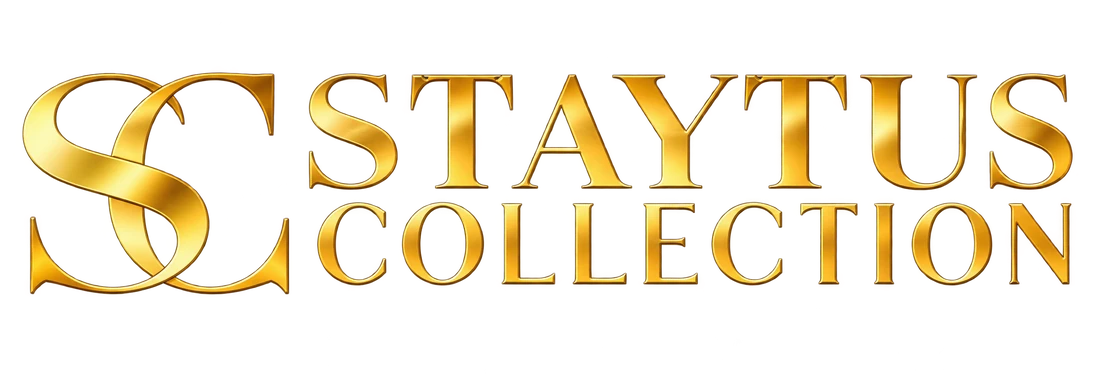
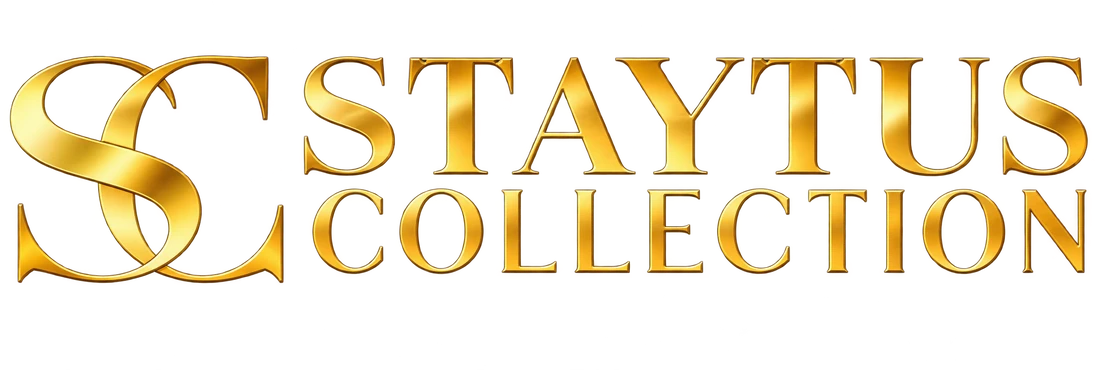
Gold seams between sections, tidier hero
- Hero: wordmark and tagline now share one left edge (the wordmark asset was
  re-cropped to its glyphs so the box edge and the text edge actually line up).
- Removed the scroll cue and the Replay button.
- Every section and the footer now close with the hero's 4px gold rule. Each one
  draws left to right the first time it scrolls into view, then stays. The bar
  inside the seam does the moving so the observed element keeps its area —
  IntersectionObserver never reports a zero-width target as visible. No negative
  bottom rootMargin for the same reason: the footer's seam is the document's
  last pixel row.
- Dropped the once-per-session intro gate along with Replay, so the hero still
  has a way to be seen again.
- Under prefers-reduced-motion every seam sits finished and nothing animates.

Claude-Session: https://claude.ai/code/session_011caNUriUyfvHvYwu5VTicu

Changed region(s): [[0.0, 0.1486, 0.9891, 0.8027]]

diff --git a/index.html b/index.html
@@ -148,7 +148,22 @@ a:hover{ color:var(--gold-lift); }
 }
 
 .lead{ font-size:var(--t-lead); line-height:1.8; }
-.section{ padding:var(--sec-y) var(--pad-x); scroll-margin-top:76px; }
+.section{ position:relative; padding:var(--sec-y) var(--pad-x); scroll-margin-top:76px; }
+
+/* The gold seam closes every section. It draws left to right the first time it
+   scrolls into view, then stays. */
+.seam{
+  position:absolute; z-index:6; left:0; right:0; bottom:0;
+  display:block; height:var(--edge); overflow:hidden;
+}
+/* The bar inside does the moving — the observed .seam must keep its area, or
+   IntersectionObserver never reports a zero-width element as visible. */
+.seam::before{
+  content:""; position:absolute; inset:0; background:var(--gold);
+  transform:scaleX(0); transform-origin:left center;
+  transition:transform 950ms var(--ease-in-out);
+}
+.seam[data-on="1"]::before{ transform:scaleX(1); }
 .section--tint{ background:var(--cream); }
 .section--dark{ background:var(--navy); }
 
@@ -185,8 +200,8 @@ a:hover{ color:var(--gold-lift); }
   height:100vh; height:100dvh; min-height:560px;
   overflow:hidden;
   background:radial-gradient(120% 90% at 78% 8%, var(--white) 0%, var(--cream) 52%, var(--cream-2) 100%);
-  border-bottom:var(--edge) solid var(--gold);
 }
+.hero .seam::before{ transition-delay:calc(2.15s * var(--stage)); }
 .hero__sky{
   position:absolute; z-index:1; top:0; right:-2vw; height:100%;
   width:63vw; min-width:520px; overflow:hidden;
@@ -204,7 +219,7 @@ a:hover{ color:var(--gold-lift); }
 }
 
 .hero__brand{
-  position:absolute; z-index:3; right:58.5vw; bottom:132px;
+  position:absolute; z-index:3; left:var(--pad-x); bottom:130px;
   width:36vw; min-width:240px; max-width:560px;
   margin:0;
 }
@@ -214,34 +229,12 @@ a:hover{ color:var(--gold-lift); }
 }
 
 .hero__tagline{
-  position:absolute; z-index:4; left:var(--pad-x); bottom:76px;
+  position:absolute; z-index:4; left:var(--pad-x); bottom:70px;
   max-width:min(40vw,460px);
   font-family:var(--display); font-weight:300; font-style:normal;
   font-size:var(--t-hero); line-height:1.24; letter-spacing:.015em;
   color:var(--ink); text-wrap:pretty;
 }
-
-.hero__cue{
-  position:absolute; z-index:4; left:var(--pad-x); bottom:28px;
-  display:flex; align-items:center; gap:9px;
-  font-size:9px; letter-spacing:.28em; text-transform:uppercase; color:var(--ink-muted);
-  transition:opacity var(--d-change) var(--ease-out);
-}
-.hero__cue svg{ stroke:var(--gold); }
-.hero__cue[data-gone="1"]{ opacity:0; pointer-events:none; }
-
-.hero__replay{
-  position:absolute; z-index:5; right:var(--pad-x); bottom:26px;
-  padding:9px 18px;
-  background:rgba(250,249,246,.92); backdrop-filter:blur(6px);
-  border:1px solid rgba(34,44,69,.32); color:var(--ink);
-  font-family:var(--body); font-size:10px; letter-spacing:.24em; text-transform:uppercase;
-  cursor:pointer;
-  transition:border-color var(--d-hover) var(--ease-out),
-             color var(--d-hover) var(--ease-out),
-             background var(--d-hover) var(--ease-out);
-}
-.hero__replay:hover{ border-color:var(--gold); color:var(--gold); background:var(--white); }
 
 /* ── hero stage animation ──────────────────────────────────── */
 /* The nav must keep its centring translate while the drop plays. */
@@ -263,19 +256,12 @@ a:hover{ color:var(--gold-lift); }
   0%  { transform:translate3d(0,14px,0); opacity:0; }
   100%{ transform:translate3d(0,0,0); opacity:1; }
 }
-@keyframes scCueBob{
-  0%,100%{ transform:translateY(0); }
-  50%    { transform:translateY(5px); }
-}
 
 .hero__sky,
 .hero__building{ animation:scBuildingIn calc(1.6s * var(--stage)) var(--ease-stage) both; }
 .hero__brand img{ animation:scBrandOut calc(1.45s * var(--stage)) var(--ease-stage) calc(.95s * var(--stage)) both; }
 .nav{ animation:scNavDrop calc(.85s * var(--stage)) var(--ease-out) calc(2.05s * var(--stage)) both; }
 .hero__tagline{ animation:scFadeUp calc(1.1s * var(--stage)) var(--ease-out) calc(2.5s * var(--stage)) both; }
-.hero__replay{ animation:scFadeUp calc(.9s * var(--stage)) var(--ease-out) calc(2.7s * var(--stage)) both; }
-.hero__cue{ animation:scFadeUp calc(.9s * var(--stage)) var(--ease-out) calc(2.9s * var(--stage)) both; }
-.hero__cue svg{ animation:scCueBob 2.4s var(--ease-in-out) calc(3.6s * var(--stage)) infinite; }
 
 /* ── welcome ───────────────────────────────────────────────── */
 .welcome{ text-align:center; }
@@ -297,8 +283,9 @@ a:hover{ color:var(--gold-lift); }
 
 /* ── statement band ────────────────────────────────────────── */
 .band{
+  position:relative;
   background:var(--navy-2); padding:var(--sec-y-sm) var(--pad-x);
-  text-align:center; border-top:1px solid rgba(255,255,255,.06);
+  text-align:center;
 }
 .band p{ max-width:760px; margin-inline:auto; font-size:var(--t-lead); line-height:1.8; color:var(--mist); }
 .band__close{
@@ -437,12 +424,12 @@ textarea.field{ resize:vertical; min-height:96px; }
 
 /* ── footer ────────────────────────────────────────────────── */
 .foot{
-  background:var(--navy-2); padding:0 var(--pad-x) 34px;
+  background:var(--navy-2); padding:0 var(--pad-x) 40px;
   position:relative; z-index:1;
 }
 .foot__inner{
   max-width:1080px; margin-inline:auto;
-  padding-top:22px; border-top:1px solid var(--slate); text-align:center;
+  padding-top:30px; text-align:center;
 }
 .foot p{ font-size:11px; line-height:1.65; color:var(--mist); }
 .foot p + p{ margin-top:12px; }
@@ -478,7 +465,7 @@ textarea.field{ resize:vertical; min-height:96px; }
      tagline in flow, and let the building rise out of the bottom edge instead. */
   .hero{
     min-height:620px;
-    display:flex; flex-direction:column; align-items:center; justify-content:center;
+    display:flex; flex-direction:column; align-items:flex-start; justify-content:center;
     padding:14vh var(--pad-x) 36vh;
   }
   .hero__sky{ display:none; }
@@ -493,11 +480,9 @@ textarea.field{ resize:vertical; min-height:96px; }
   .hero__tagline{
     position:relative; z-index:3;
     left:auto; right:auto; bottom:auto;
-    margin-top:22px; max-width:none; text-align:center;
+    margin-top:22px; max-width:none; text-align:left;
     font-size:clamp(19px,5.4vw,27px);
   }
-  .hero__replay{ bottom:18px; }
-  .hero__cue{ display:none; }
 }
 
 @media (max-width:640px){
@@ -518,10 +503,8 @@ textarea.field{ resize:vertical; min-height:96px; }
   .hero__brand img,
   .nav,
   .hero__tagline,
-  .hero__replay,
-  .hero__cue,
-  .hero__cue svg,
   .contact__grid-bg{ animation:none !important; }
+  .seam::before{ transform:scaleX(1) !important; transition:none !important; }
   .nav{ transform:translateX(-50%); opacity:1; }
   .card:hover,
   .btn:hover,
@@ -556,17 +539,12 @@ textarea.field{ resize:vertical; min-height:96px; }
          alt="Rouxcor House, 20 Herold Street, Stellenbosch" width="1400" height="933" fetchpriority="high">
 
     <h1 class="hero__brand">
-      <img src="assets/wordmark.webp" alt="Staytus Collection" width="1100" height="379">
+      <img src="assets/wordmark.webp" alt="Staytus Collection" width="1100" height="370">
     </h1>
 
     <p class="hero__tagline">A Distinctive Approach<br>to Property Development</p>
 
-    <div class="hero__cue" id="cue" aria-hidden="true">
-      <span>Scroll</span>
-      <svg width="16" height="16" viewBox="0 0 24 24" fill="none" stroke-width="1.6"><path d="M12 5v14"></path><path d="M5 12l7 7 7-7"></path></svg>
-    </div>
-
-    <button class="hero__replay" id="replay" type="button">Replay</button>
+    <i class="seam" aria-hidden="true"></i>
   </section>
 
   <!-- ── WELCOME ──────────────────────────────────────────── -->
@@ -584,12 +562,14 @@ textarea.field{ resize:vertical; min-height:96px; }
 
       <p class="welcome__group">Staytus Collection is part of the Rouxcor Group of Companies.</p>
     </div>
+    <i class="seam" aria-hidden="true"></i>
   </section>
 
   <!-- ── STATEMENT BAND ───────────────────────────────────── -->
   <section class="band" aria-label="Our commitment">
     <p>Choose STAYTUS for a development experience that goes beyond the ordinary, where innovation, passion, and a commitment to lasting beauty define every project.</p>
     <p class="band__close">Welcome to a realm where properties and lifestyles are crafted for a lifetime.</p>
+    <i class="seam" aria-hidden="true"></i>
   </section>
 
   <!-- ── WHAT WE OFFER ────────────────────────────────────── -->
@@ -661,6 +641,7 @@ textarea.field{ resize:vertical; min-height:96px; }
 
       </div>
     </div>
+    <i class="seam" aria-hidden="true"></i>
   </section>
 
   <!-- ── PORTFOLIO ────────────────────────────────────────── -->
@@ -700,6 +681,7 @@ textarea.field{ resize:vertical; min-height:96px; }
 
       </div>
     </div>
+    <i class="seam" aria-hidden="true"></i>
   </section>
 
   <!-- ── CONTACT ──────────────────────────────────────────── -->
@@ -757,6 +739,7 @@ textarea.field{ resize:vertical; min-height:96px; }
 
       </div>
     </div>
+    <i class="seam" aria-hidden="true"></i>
   </section>
 
 </main>
@@ -767,6 +750,7 @@ textarea.field{ resize:vertical; min-height:96px; }
     <p>© Staytus Collection. 2025 All rights reserved</p>
     <p class="foot__concept">Concept demo — STB Studios</p>
   </div>
+  <i class="seam" aria-hidden="true"></i>
 </footer>
 
 <button class="totop" id="totop" type="button" aria-label="Back to top">
@@ -798,25 +782,14 @@ textarea.field{ resize:vertical; min-height:96px; }
 (function () {
   'use strict';
 
-  var root   = document.documentElement;
-  var calm   = window.matchMedia('(prefers-reduced-motion: reduce)');
-  var SPEED  = 0.75;           // designed stage speed
-  var LOCK   = 3000 * SPEED;   // hold the page still while the hero plays
-  var SEEN   = 'sc_hero_seen_v1';
+  var root  = document.documentElement;
+  var calm  = window.matchMedia('(prefers-reduced-motion: reduce)');
+  var SPEED = 0.75;           // designed stage speed
+  var LOCK  = 3000 * SPEED;   // hold the page still while the hero plays
 
   /* ── hero stage ─────────────────────────────────────────── */
-  var hero    = document.querySelector('.hero');
-  var replay  = document.getElementById('replay');
-  var cue     = document.getElementById('cue');
-  var locked  = false;
-  var timer   = null;
-
-  function seen() {
-    try { return sessionStorage.getItem(SEEN) === '1'; } catch (e) { return false; }
-  }
-  function markSeen() {
-    try { sessionStorage.setItem(SEEN, '1'); } catch (e) {}
-  }
+  var locked = false;
+  var timer  = null;
 
   var block     = function (e) { e.preventDefault(); };
   var blockKeys = function (e) {
@@ -834,37 +807,38 @@ textarea.field{ resize:vertical; min-height:96px; }
     window[fn]('keydown', blockKeys, { passive: false });
   }
 
-  function play(instant) {
-    clearTimeout(timer);
-    root.style.setProperty('--stage', instant ? '0.001' : String(SPEED));
-    if (instant) { lock(false); return; }
+  if (calm.matches) {
+    root.style.setProperty('--stage', '0.001');   // settled pose, no hold
+  } else {
+    root.style.setProperty('--stage', String(SPEED));
     window.scrollTo(0, 0);
     lock(true);
     timer = setTimeout(function () { lock(false); }, LOCK);
   }
-
-  // Restart the CSS animations by cloning the hero's class state.
-  function restart() {
-    window.scrollTo(0, 0);
-    hero.querySelectorAll('.hero__sky, .hero__building, .hero__brand img, .hero__tagline, .hero__replay, .hero__cue')
-      .forEach(function (el) {
-        var a = el.style.animation;
-        el.style.animation = 'none';
-        void el.offsetWidth;              // force reflow so the animation re-runs
-        el.style.animation = a || '';
-      });
-    if (cue) cue.dataset.gone = '0';
-    play(false);
-  }
-
-  play(calm.matches || seen());
-  markSeen();
-
-  if (replay) replay.addEventListener('click', restart);
-  // A safety net: any deliberate click frees the page even if a timer is lost.
+  // Safety net: any deliberate click frees the page even if the timer is lost.
   window.addEventListener('pointerdown', function () { if (locked) lock(false); }, true);
 
-  /* ── scroll-driven chrome ───────────────────────────────── */
+  /* ── gold seams draw left to right as they scroll in ────── */
+  var seams = [].slice.call(document.querySelectorAll('.seam'));
+
+  if (calm.matches || !('IntersectionObserver' in window)) {
+    seams.forEach(function (el) { el.dataset.on = '1'; });
+  } else {
+    var io = new IntersectionObserver(function (entries) {
+      entries.forEach(function (en) {
+        if (!en.isIntersecting) return;
+        en.target.dataset.on = '1';
+        io.unobserve(en.target);          // draws once, then stays
+      });
+    });
+    // No negative bottom margin: a seam sits on its section's last pixel row, and
+    // the footer's is the last row of the document — anything inset would never
+    // reach it. Each line draws as it crosses the bottom edge and keeps drawing
+    // while it travels up.
+    seams.forEach(function (el) { io.observe(el); });
+  }
+
+  /* ── back to top ────────────────────────────────────────── */
   var totop = document.getElementById('totop');
   var ticking = false;
 
@@ -874,7 +848,6 @@ textarea.field{ resize:vertical; min-height:96px; }
     requestAnimationFrame(function () {
       var y = window.scrollY || root.scrollTop || 0;
       totop.dataset.on = y > 400 ? '1' : '0';
-      if (cue) cue.dataset.gone = y > 40 ? '1' : '0';
       ticking = false;
     });
   }
